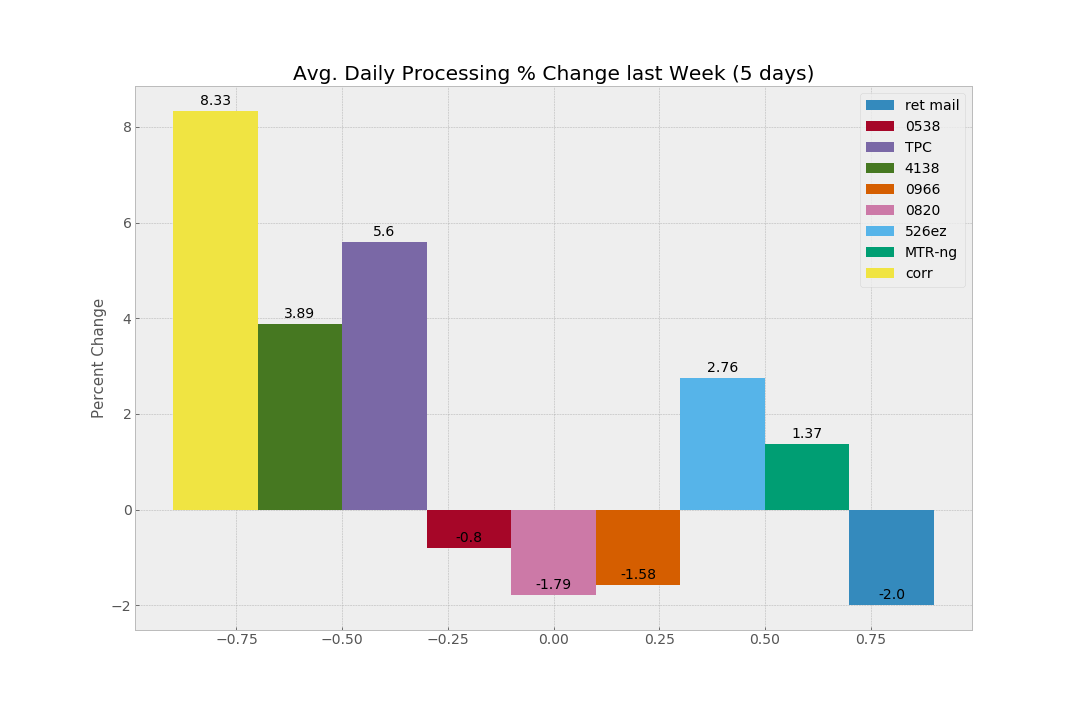
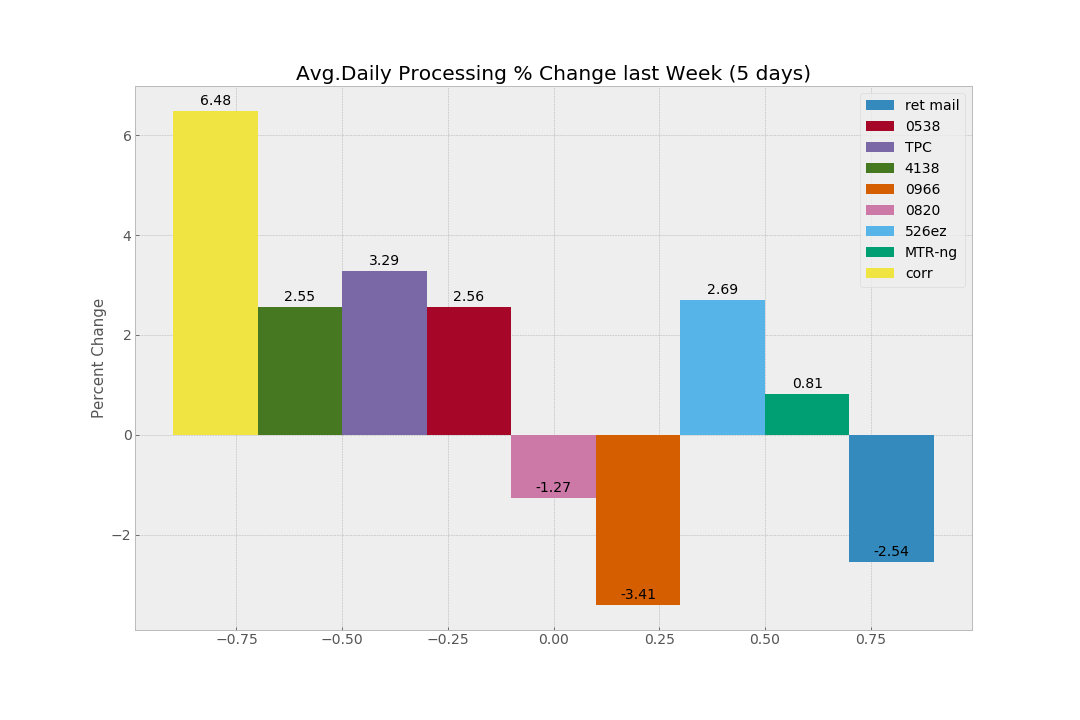
updates

diff --git a/Weekly.html b/Weekly.html
@@ -26,7 +26,7 @@
     </figure>
     <div class='center'>
     </div>
-    <iframe src="https://chart-studio.plotly.com/~mshuff/763.embed" width="1000" height="1000" allowfullscreen="allowfullscreen" class="center"></iframe>
+    <iframe src="https://chart-studio.plotly.com/~mshuff/769.embed" width="1000" height="1000" allowfullscreen="allowfullscreen" class="center"></iframe>
     </p>
     <br>
     <img src='Report-imgs/Weekly Doc Processing percentage.png' height='750px' width='1200px' class='center'>
